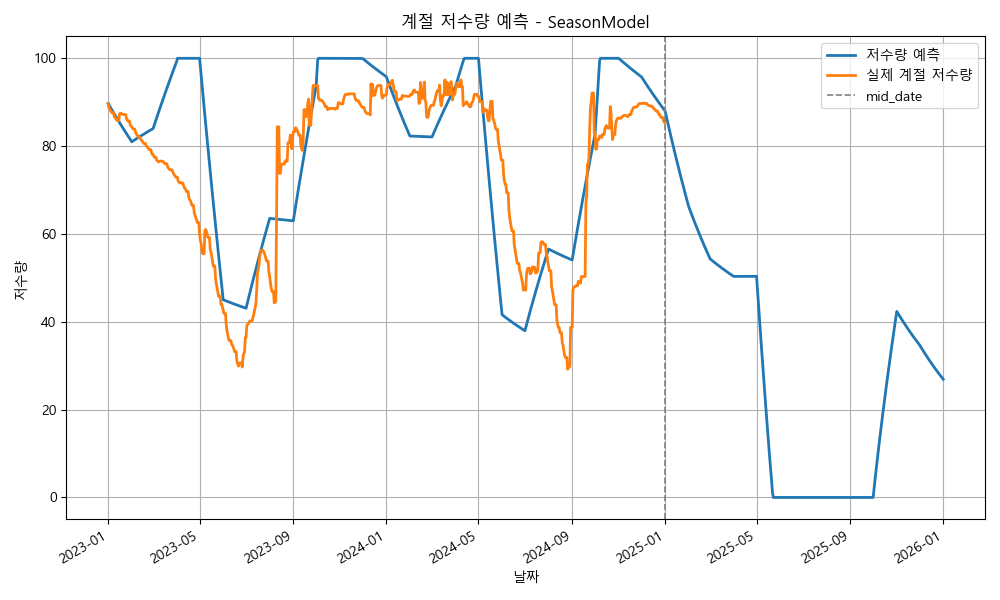
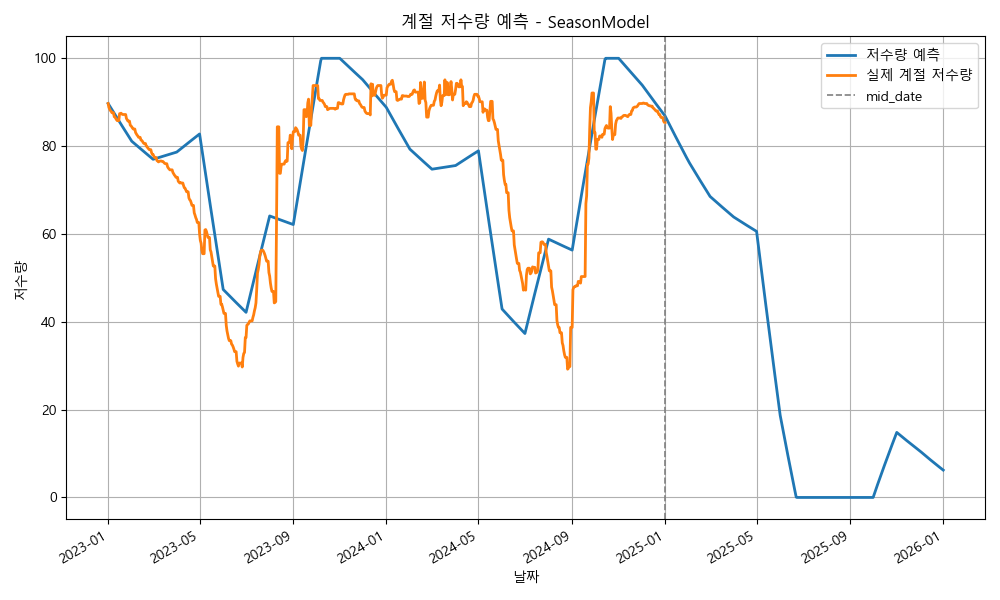
Simple Model added

diff --git a/src/models.py b/src/models.py
@@ -138,13 +138,11 @@ class SeasonModel(BaseModel):
 
     def _value_for_date(self, data: dict[str, Any], date: datetime.date) -> float:
         """Prefer monthly values if present, fall back to seasonal buckets."""
-        # Prefer exact month as string ("1".."12") or zero-based ("0".."11")
         month_keys = [str(date.month), str(date.month - 1)]
         for key in month_keys:
             if key in data:
                 return self._value_with_trend(data[key], date.year)
 
-        # Fallback to seasonal mapping
         season = self._get_season(date)
         if season in data:
             return self._value_with_trend(data[season], date.year)
@@ -363,6 +361,139 @@ class SineModel(BaseModel):
         m = m * water_usage_scale
 
         next_capacity = current_capacity + 7.6e-1 * p * r * d - ((current_capacity * 0.01) ** (0.6666)) * 850000 / 143290.0 * v / 1000 * d + 0.07 * o - ((w + m) / 143290.0)
+        next_capacity = min(max(next_capacity, 0.0), 100.0)
+
+        return next_capacity
+
+    def run(self, start_capacity: float, start_time: datetime.date, end_time: datetime.date) -> list[float]:
+        current_capacity: list[float] = [start_capacity]
+        current_time = start_time
+
+        if self.reference_year is None:
+            self.reference_year = start_time.year
+
+        while current_time <= end_time:
+            current_capacity.append(
+                self._next(current_capacity=current_capacity[len(current_capacity) - 1], date=current_time)
+            )
+
+            current_time = current_time + datetime.timedelta(days=1)
+
+        return current_capacity
+
+
+class LessModel(BaseModel):
+    PARAM_DIM = 1
+    PARAM_NAMES = ["p"]
+    P_MAX = [2.0]
+
+    def __init__(
+        self,
+        json_paths: list[str],
+        precipitation: int,
+        large_evaporation: int,
+        water_usage: int,
+        external_supply: float | None = None,
+        water_policy: float | None = None,
+        x: list[float] | None = None,
+    ):
+        self.json: list[dict[str, Any]] = []
+        for paths in json_paths:
+            with open(paths, "r") as f:
+                self.json.append(json.load(f))
+
+        self.precipitation_index = precipitation
+        self.large_evaporation_index = large_evaporation
+        self.water_usage_index = water_usage
+        self.external_supply = external_supply
+        self.water_policy = water_policy
+
+        default_x = [0.1]
+        chosen_x = default_x if x is None else list(x)
+        if len(chosen_x) < self.PARAM_DIM:
+            chosen_x += [default_x[i] for i in range(len(chosen_x), self.PARAM_DIM)]
+        self.x = chosen_x[: self.PARAM_DIM]
+        self.reference_year: int = 2019
+
+    @staticmethod
+    def _get_season(date: datetime.date):
+        if date.month in [12, 1, 2]:
+            return "winter"
+        elif date.month in [3, 4, 5]:
+            return "spring"
+        elif date.month in [6, 7, 8]:
+            return "summer"
+        else:
+            return "fall"
+
+    def _value_with_trend(self, entry: Any, year: int) -> float:
+        """Handles both plain numbers and dicts with base/trend/base_year."""
+        if isinstance(entry, dict):
+            base_year = entry.get("base_year", self.reference_year if self.reference_year is not None else year)
+            try:
+                base_year_int = int(base_year)
+            except (TypeError, ValueError):
+                base_year_int = year
+
+            base_value = float(entry.get("base", entry.get("value", 0.0)))
+            trend = float(entry.get("trend", 0.0))
+            return base_value + trend * (year - base_year_int)
+
+        try:
+            return float(entry)
+        except (TypeError, ValueError):
+            return 0.0
+
+    def _value_for_date(self, data: dict[str, Any], date: datetime.date) -> float:
+        """Prefer monthly values if present, fall back to seasonal buckets."""
+        month_keys = [str(date.month), str(date.month - 1)]
+        for key in month_keys:
+            if key in data:
+                return self._value_with_trend(data[key], date.year)
+            
+        season = self._get_season(date)
+        if season in data:
+            return self._value_with_trend(data[season], date.year)
+
+        return 0.0
+
+    def _get(self, date: datetime.date):
+        r: float = self._value_for_date(self.json[self.precipitation_index], date)
+        v: float = self._value_for_date(self.json[self.large_evaporation_index], date)
+        d: float = 1.0
+        o: float = 0.0 if self.external_supply is None else self.external_supply
+        p: float = 0.0 if self.water_policy is None else self.water_policy
+
+        date_first = datetime.datetime(date.year, date.month, 1)
+        if date.month == 12:
+            date_last = datetime.datetime(date.year + 1, 1, 1)
+        else:
+            date_last = datetime.datetime(date.year, date.month + 1, 1)
+        date_delta = date_last - date_first - datetime.timedelta(days=1)
+
+        w: float = self.json[self.water_usage_index][str(date.month - 1)] / date_delta.days
+
+        return (r, v, d, o, p, w)
+
+    def _next(
+        self,
+        current_capacity: float,
+        date: datetime.date,
+        precipitation_scale: float = 1.0,
+        water_usage_scale: float = 1.0,
+        external_supply_addition: float = 0.0,
+    ):
+        r, v, d, o, p, w = self._get(date)
+        p = self.x[0]
+
+        r = r * precipitation_scale
+        w = w * water_usage_scale
+        o = o + external_supply_addition
+
+        r_adjusted = r
+        v_adjusted = v
+
+        next_capacity = current_capacity + 7.6e-1 * p * r_adjusted * d - ((current_capacity * 0.01) ** (0.6666)) * 850000 / 143290.0 * v_adjusted / 1000 * d + 0.07 * o - (w / 143290.0)
         next_capacity = min(max(next_capacity, 0.0), 100.0)
 
         return next_capacity

diff --git a/src/simulate.py b/src/simulate.py
@@ -13,7 +13,7 @@ from datetime import datetime, timedelta
 import matplotlib.pyplot as plt
 import numpy as np
 import pandas
-from scipy.optimize import minimize, least_squares, differential_evolution, dual_annealing
+from scipy.optimize import minimize, least_squares, differential_evolution, dual_annealing, minimize_scalar
 from omegaconf import DictConfig, ListConfig, OmegaConf
 
 import src.models as models
@@ -142,7 +142,7 @@ class Simulator:
         q_low = np.quantile(y_true_arr[:n], 0.15)
         q_high = np.quantile(y_true_arr[:n], 0.85)
         extreme_mask = (y_true_arr[:n] <= q_low) | (y_true_arr[:n] >= q_high)
-        weights = 1.0 + 4.0 * extreme_mask.astype(float)
+        weights = 1.0 + 2.0 * extreme_mask.astype(float)
 
         residual = ((y_true_arr[:n] - y_pred[:n]) / scale) * weights
 
@@ -164,6 +164,8 @@ class Simulator:
         model_class = getattr(models, model_type)
         param_names = getattr(model_class, "PARAM_NAMES", None)
         param_dim = getattr(model_class, "PARAM_DIM", len(param_names) if param_names is not None else 6)
+        if param_dim <= 0:
+            raise ValueError(f"{model_type} must define a positive PARAM_DIM (got {param_dim}).")
 
         P_MAX_fallback = [2.0, 1e6, 1e6, 1e6, 1e6, 1e6]
         P_MAX_raw = getattr(model_class, "P_MAX", P_MAX_fallback if param_dim <= len(P_MAX_fallback) else [1.0] * param_dim)
@@ -182,9 +184,6 @@ class Simulator:
         def residual_scaled(u, model_type, jsons, args, y_true, start_date, end_date):
             x = u * P_MAX
             return self.loss_for_P(x, model_type, jsons, args, y_true, start_date, end_date)
-        
-        def residual_scaled_wrapped(u):
-            return residual_scaled(u, *common_args)
 
         def scalar_objective(theta, model_type, jsons, args, y_true, start_date, end_date):
             res = residual_scaled(theta, model_type, jsons, args, y_true, start_date, end_date)
@@ -195,24 +194,42 @@ class Simulator:
                 np.array(theta),
                 model_type, self.jsons, self.args, y_true, start_date, end_date,
             )
-
-        bounds_u = (np.zeros(param_dim), np.ones(param_dim))
-        lb = np.zeros(param_dim)
-        ub = np.ones(param_dim)
-        bounds_de = list(zip(lb, ub))
         
-        x0 = np.array([0.5] * param_dim)
+        x0 = [0.5] * param_dim
         sigma0 = 0.2
-
-        es = cma.CMAEvolutionStrategy(x0, sigma0, {
-            "bounds": [0.0, 1.0],
+        lb_cma = [0.0] * param_dim
+        ub_cma = [1.0] * param_dim
+        cma_opts = {
+            "bounds": [lb_cma, ub_cma],
+            "CMA_stds": [sigma0] * param_dim,
+            "scaling_of_variables": [1.0] * param_dim,
+            "typical_x": [0.0] * param_dim,
+            "fixed_variables": None,
+            "transformation": None,
             "maxiter": 2000,
-        })
+        }
 
-        es.optimize(scalar_objective_cma)
-        theta_cma = np.array(es.result.xbest)
+        if param_dim == 1:
+            def objective_scalar(u):
+                u_clipped = float(np.clip(u, 0.0, 1.0))
+                return scalar_objective(
+                    np.array([u_clipped]),
+                    model_type, self.jsons, self.args, y_true, start_date, end_date,
+                )
 
-        x_opt = P_MAX * theta_cma
+            res_scalar = minimize_scalar(
+                objective_scalar,
+                bounds=(0.0, 1.0),
+                method="bounded",
+                options={"xatol": 1e-3, "maxiter": 2000},
+            )
+            theta_best = np.array([float(np.clip(res_scalar.x, 0.0, 1.0))])
+        else:
+            es = cma.CMAEvolutionStrategy(x0, sigma0, cma_opts)
+            es.optimize(scalar_objective_cma)
+            theta_best = np.array(es.result.xbest)
+
+        x_opt = P_MAX * theta_best
 
         model: models.BaseModel = getattr(models, model_type)(
             json_paths=OmegaConf.to_container(self.jsons),
